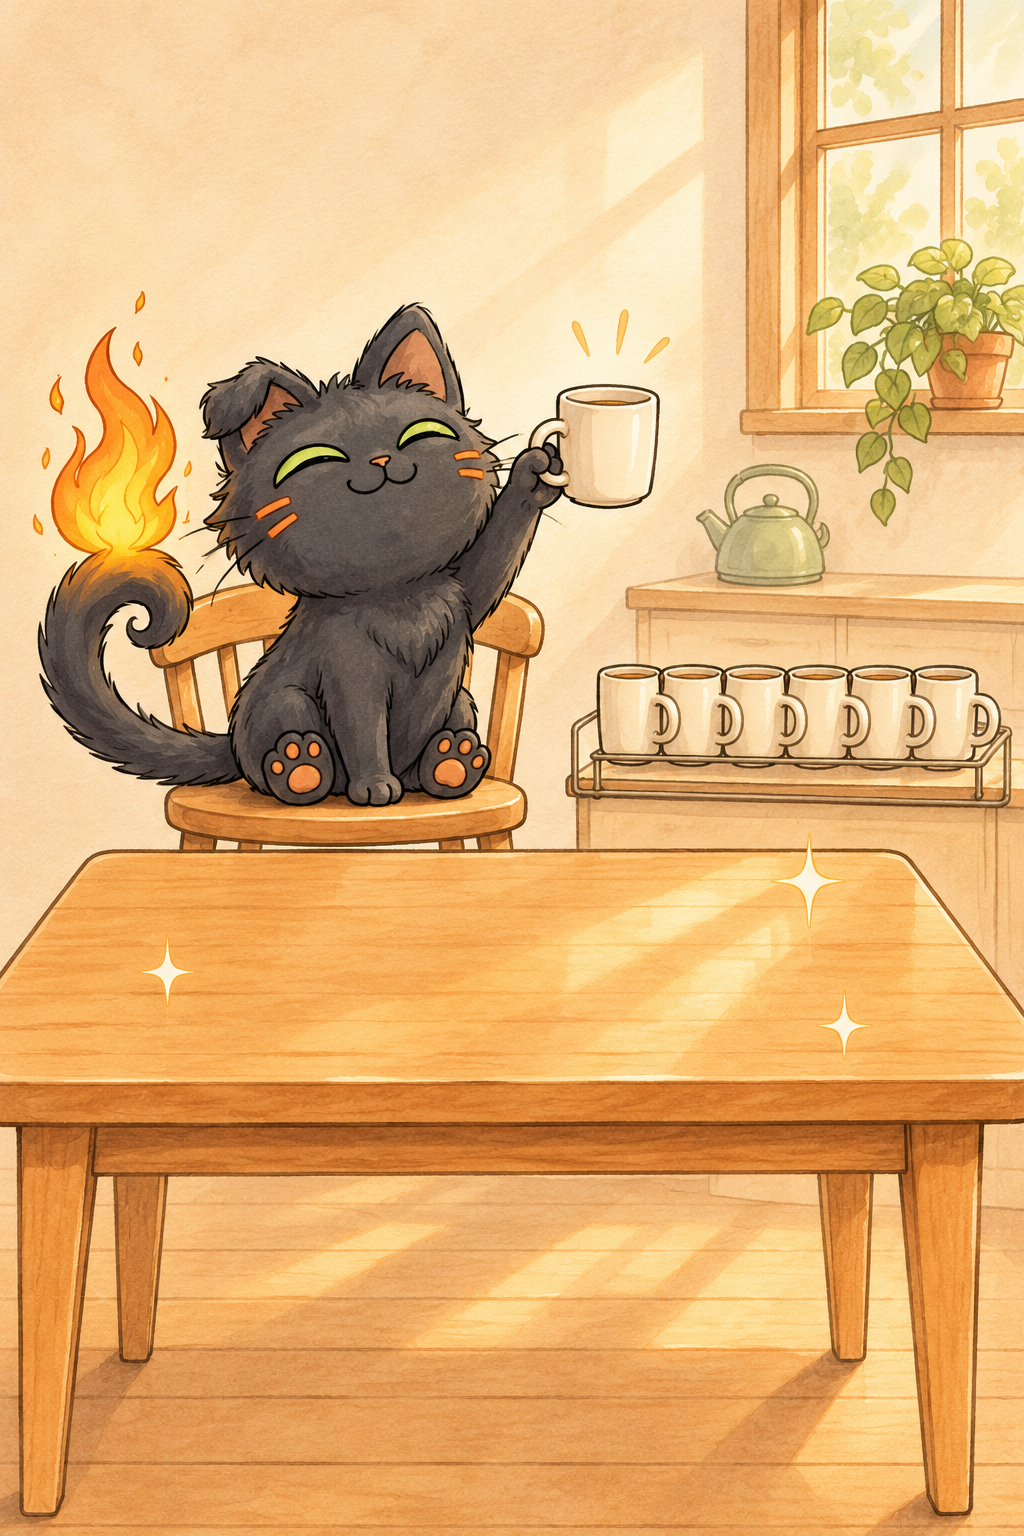
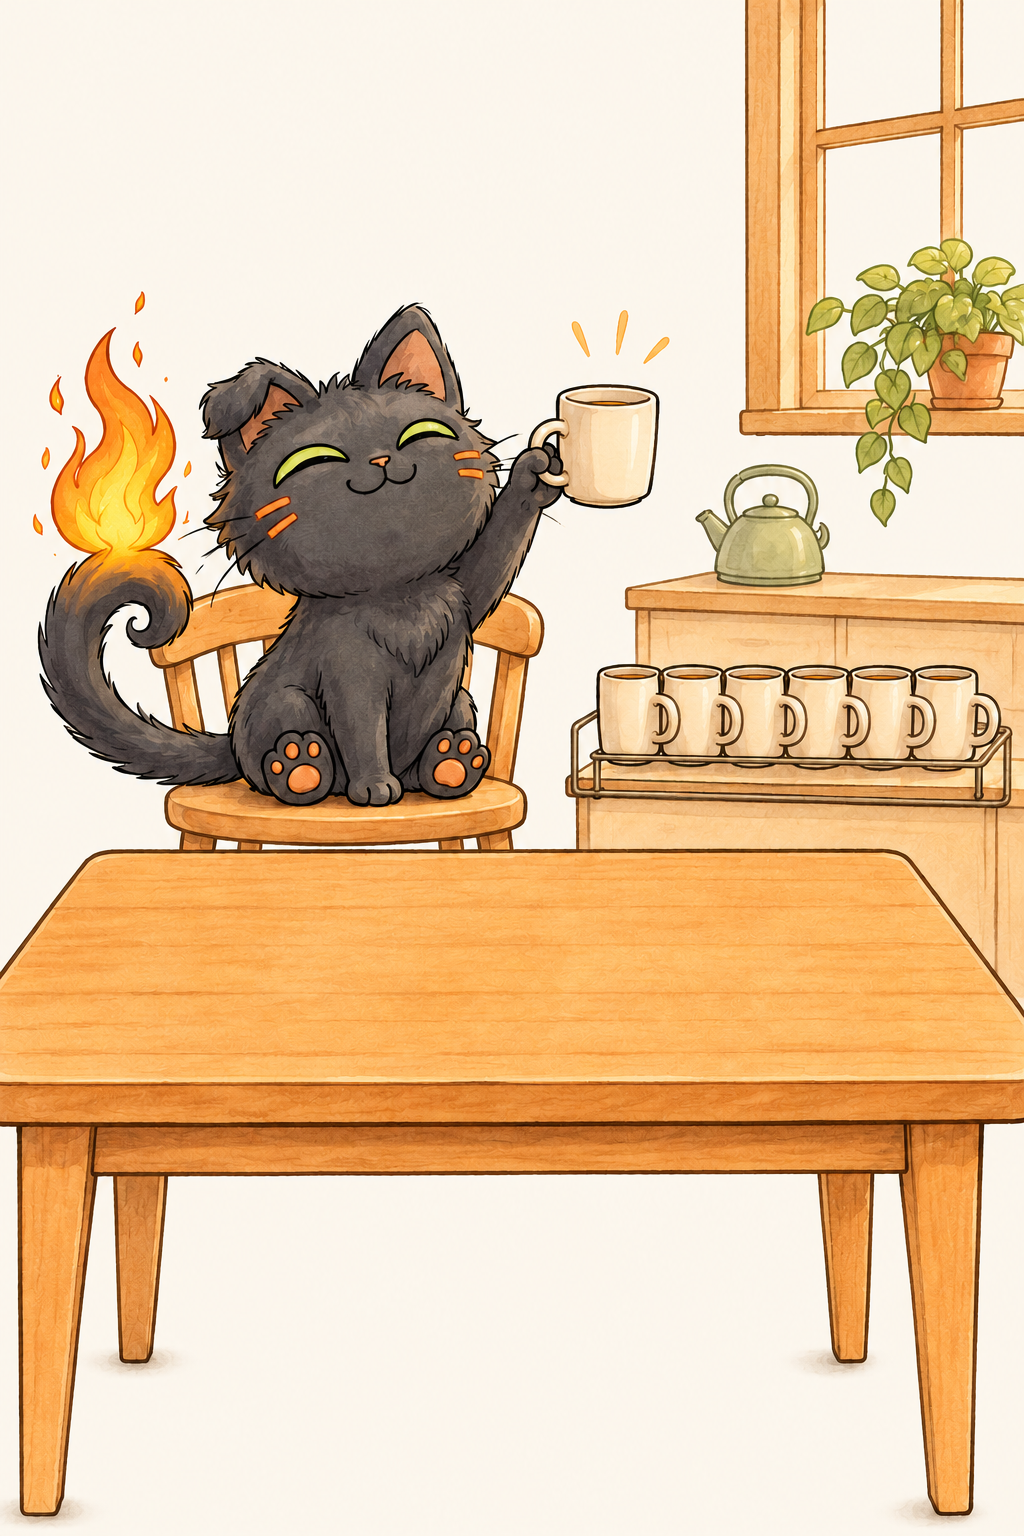
Reel 21: anchor «Знаешь и не делаешь» (both clashing words, iron rule 26), hook one shot to the riser peak, cuts on caption groups, loops closed by the plan before the call; cream redraws k5–k6; recream takes an extra background note
Claude-Session: https://claude.ai/code/session_01XV6HF8x2jb1vY9gxG1ktKZ

diff --git a/scripts/reel_recream.py b/scripts/reel_recream.py
@@ -28,18 +28,19 @@ COLOURS = ("Colours: black ink lines on cream paper in exactly the hand-drawn st
            "stays black with green eyes, orange cheek marks and an orange tail flame.")
 
 
-def prompt():
+def prompt(extra=""):
     marks = open(os.path.join(ROOT, "look", "hero_marks.txt"), encoding="utf8").read().strip()
     return ("Image 1 is a finished drawing. Redraw exactly the same drawing: the same composition, framing, camera angle, "
             "scale, and the same position, size, pose and expression of the main character and of every object, the same "
             "line work. Image 2 is the main character's reference: keep exactly its head, face, colours and markings. "
-            + marks + " The only change from image 1: " + BACKGROUND + " " + COLOURS + " Every surface is clean and "
+            + marks + " The only change from image 1: " + BACKGROUND + " " + (extra + " " if extra else "") + COLOURS + " Every surface is clean and "
             "unmarked: blank paper, blank screens, blank clock faces, no letters or numbers anywhere.")
 
 
 def main():
     ap = argparse.ArgumentParser(); ap.add_argument("reel_dir"); ap.add_argument("files", nargs="+")
     ap.add_argument("--dry", action="store_true")
+    ap.add_argument("--extra", default="", help="уточнение к фону для этого рисунка (что ещё убрать: пол, окно…)")
     a = ap.parse_args()
     import env; env.load_env()
     import llm_gateway
@@ -49,7 +50,7 @@ def main():
     if price > reel_draw.MAX_PRICE:
         raise SystemExit(f"цена {price} > {reel_draw.MAX_PRICE}")
     if a.dry:
-        print(prompt()); return
+        print(prompt(a.extra)); return
     hero = os.path.join(ROOT, "look", "hero.png")
     for rel in a.files:
         src = os.path.join(a.reel_dir, rel)
@@ -57,7 +58,7 @@ def main():
         os.makedirs(os.path.dirname(keep), exist_ok=True)
         if not os.path.exists(keep):
             shutil.copy2(src, keep)
-        p = prompt()
+        p = prompt(a.extra)
         ims, paid = G.image(reel_draw.MODEL, p, reel_draw.SIZE, reel_draw.QUALITY,
                             images=[reel_draw.data_url(keep), reel_draw.data_url(hero)], timeout=600)
         open(src, "wb").write(ims[0])

diff --git a/videos/21_znayu/reel/windows.py b/videos/21_znayu/reel/windows.py
@@ -14,15 +14,15 @@ W = {
  "bookface": _w(490, 680, 440),   # растерянная морда над книгой
  "notes": _w(500, 380, 700, dy=-6),  # листки улетают вверх
  "sofa": _w(560, 620, 1000),      # кот на диване с ноутбуком, окошки роликов на стене
- "table": _w(520, 1170, 760),     # стол, заставленный кружками
+ "table": _w(520, 1150, 760),     # стол, заставленный кружками
  "laptop": _w(400, 760, 560),     # морда кота у экрана
  "videos": _w(500, 420, 800),     # окошки роликов на стене
  "plan": _w(540, 780, 1180),      # кот на табурете у чайника, стрелка к кружке
  "kettle": _w(680, 760, 440),     # лапа на кнопке чайника
- "mug": _w(880, 780, 360),        # одна кружка на краю стола
+ "mug": ([804, 808, 300], [822, 810, 285]),        # одна кружка на краю стола
  "together": _w(540, 760, 1000),  # кот и рука моют кружку вместе
- "kitface": _w(420, 560, 480),    # кот кивает зрителю
- "wash": _w(800, 840, 380),       # кружка под струёй
+ "kitface": ([430, 650, 720], [434, 656, 684]),    # кот кивает зрителю
+ "wash": ([704, 824, 380], [688, 820, 361]),       # кружка под струёй
  "proud": _w(420, 560, 680),      # кот гордо держит чистую кружку
  "clean": _w(512, 880, 1300, k=0.92),  # чистый стол целиком
 }

diff --git a/library/cat/README.md b/library/cat/README.md
@@ -1,10 +1,10 @@
 # Библиотека оригиналов: кот и всё, что сгенерировано
 
-Картинок: **207**, 417 МБ. Оригиналы — `originals/` байт в байт, как пришли из модели (PNG без пересжатия); `thumbs/` — превью для этой страницы; `catalog.json` — промпт, модель, цена, где используется.
+Картинок: **210**, 423 МБ. Оригиналы — `originals/` байт в байт, как пришли из модели (PNG без пересжатия); `thumbs/` — превью для этой страницы; `catalog.json` — промпт, модель, цена, где используется.
 
 Пополняется сама: каждая генерация через шлюз (`llm_gateway.Gateway.image`) кладёт картинку сюда, включая забракованные варианты. Собрать уже лежащее в репозитории: `python scripts/cat_library.py --scan`.
 
-## генерация (151)
+## генерация (154)
 
 | превью | оригинал | где | промпт |
 |---|---|---|---|
@@ -129,6 +129,7 @@
 | ![](thumbs/2026-11-04_gen_cx_gpt-image-2_5_13a9cc00.jpg) | [2026-11-04_gen_cx_gpt-image-2_5_13a9cc00.png](originals/2026-11-04_gen_cx_gpt-image-2_5_13a9cc00.png)<br>1024×1536, 2026-11-04 | videos/21_znayu/reel/draw_color.py | Reference images 1-3 show only the drawing style: take from them the line work, colors, shading and simplicity, never their content or characters. Reference image 4 is the main character: keep exactly its head, face, col… |
 | ![](thumbs/2026-11-04_gen_cx_gpt-image-2_5_19109087.jpg) | [2026-11-04_gen_cx_gpt-image-2_5_19109087.png](originals/2026-11-04_gen_cx_gpt-image-2_5_19109087.png)<br>1024×1536, 2026-11-04 | videos/19_opozdal/reel/draw_color.py | Reference images 1-3 show only the drawing style: take from them the line work, colors, shading and simplicity, never their content or characters. Reference image 4 is the main character: keep exactly its head, face, col… |
 | ![](thumbs/2026-11-04_gen_cx_gpt-image-2_5_1c6630af.jpg) | [2026-11-04_gen_cx_gpt-image-2_5_1c6630af.png](originals/2026-11-04_gen_cx_gpt-image-2_5_1c6630af.png)<br>1024×1536, 2026-11-04 | scripts/reel_recream.py videos/19_opozdal/reel gen/d2_sock.png | Image 1 is a finished drawing. Redraw exactly the same drawing: the same composition, framing, camera angle, scale, and the same position, size, pose and expression of the main character and of every object, the same lin… |
+| ![](thumbs/2026-11-04_gen_cx_gpt-image-2_5_1ec8c122.jpg) | [2026-11-04_gen_cx_gpt-image-2_5_1ec8c122.png](originals/2026-11-04_gen_cx_gpt-image-2_5_1ec8c122.png)<br>1024×1536, 2026-11-04 | scripts/reel_recream.py videos/21_znayu/reel gen/k5_book.png | Image 1 is a finished drawing. Redraw exactly the same drawing: the same composition, framing, camera angle, scale, and the same position, size, pose and expression of the main character and of every object, the same lin… |
 | ![](thumbs/2026-11-04_gen_cx_gpt-image-2_5_21f82d9a.jpg) | [2026-11-04_gen_cx_gpt-image-2_5_21f82d9a.png](originals/2026-11-04_gen_cx_gpt-image-2_5_21f82d9a.png)<br>1024×1536, 2026-11-04 | videos/21_znayu/reel/draw_color.py | Reference images 1-3 show only the drawing style: take from them the line work, colors, shading and simplicity, never their content or characters. Reference image 4 is the main character: keep exactly its head, face, col… |
 | ![](thumbs/2026-11-04_gen_cx_gpt-image-2_5_23890a3f.jpg) | [2026-11-04_gen_cx_gpt-image-2_5_23890a3f.png](originals/2026-11-04_gen_cx_gpt-image-2_5_23890a3f.png)<br>1024×1536, 2026-11-04 | scripts/reel_recream.py videos/21_znayu/reel gen/k1_tips.png | Image 1 is a finished drawing. Redraw exactly the same drawing: the same composition, framing, camera angle, scale, and the same position, size, pose and expression of the main character and of every object, the same lin… |
 | ![](thumbs/2026-11-04_gen_cx_gpt-image-2_5_322ad94c.jpg) | [2026-11-04_gen_cx_gpt-image-2_5_322ad94c.png](originals/2026-11-04_gen_cx_gpt-image-2_5_322ad94c.png)<br>1024×1536, 2026-11-04 | videos/19_opozdal/reel/draw_color.py | Reference images 1-3 show only the drawing style: take from them the line work, colors, shading and simplicity, never their content or characters. Reference image 4 is the main character: keep exactly its head, face, col… |
@@ -138,6 +139,7 @@
 | ![](thumbs/2026-11-04_gen_cx_gpt-image-2_5_47c2544e.jpg) | [2026-11-04_gen_cx_gpt-image-2_5_47c2544e.png](originals/2026-11-04_gen_cx_gpt-image-2_5_47c2544e.png)<br>1024×1536, 2026-11-04 | scripts/reel_draw.py videos/20_abonement/reel | Reference images 1-3 show only the drawing style: take from them the line work, colors, shading and simplicity, never their content or characters. Reference image 4 is the main character: keep exactly its head, face, col… |
 | ![](thumbs/2026-11-04_gen_cx_gpt-image-2_5_4bf8fd8c.jpg) | [2026-11-04_gen_cx_gpt-image-2_5_4bf8fd8c.png](originals/2026-11-04_gen_cx_gpt-image-2_5_4bf8fd8c.png)<br>1024×1536, 2026-11-04 | scripts/reel_recream.py videos/21_znayu/reel gen/k1_tips.png | Image 1 is a finished drawing. Redraw exactly the same drawing: the same composition, framing, camera angle, scale, and the same position, size, pose and expression of the main character and of every object, the same lin… |
 | ![](thumbs/2026-11-04_gen_cx_gpt-image-2_5_4de8eec6.jpg) | [2026-11-04_gen_cx_gpt-image-2_5_4de8eec6.png](originals/2026-11-04_gen_cx_gpt-image-2_5_4de8eec6.png)<br>1024×1536, 2026-11-04 | scripts/reel_recream.py videos/19_opozdal/reel gen/d2_sock.png | Image 1 is a finished drawing. Redraw exactly the same drawing: the same composition, framing, camera angle, scale, and the same position, size, pose and expression of the main character and of every object, the same lin… |
+| ![](thumbs/2026-11-04_gen_cx_gpt-image-2_5_5072a43e.jpg) | [2026-11-04_gen_cx_gpt-image-2_5_5072a43e.png](originals/2026-11-04_gen_cx_gpt-image-2_5_5072a43e.png)<br>1024×1536, 2026-11-04 | scripts/reel_recream.py videos/21_znayu/reel gen/k6_together.png | Image 1 is a finished drawing. Redraw exactly the same drawing: the same composition, framing, camera angle, scale, and the same position, size, pose and expression of the main character and of every object, the same lin… |
 | ![](thumbs/2026-11-04_gen_cx_gpt-image-2_5_6540c7a1.jpg) | [2026-11-04_gen_cx_gpt-image-2_5_6540c7a1.png](originals/2026-11-04_gen_cx_gpt-image-2_5_6540c7a1.png)<br>1024×1536, 2026-11-04 | videos/19_opozdal/reel/draw_color.py d6_out | Reference images 1-3 show only the drawing style: take from them the line work, colors, shading and simplicity, never their content or characters. Reference image 4 is the main character: keep exactly its head, face, col… |
 | ![](thumbs/2026-11-04_gen_cx_gpt-image-2_5_6667ac63.jpg) | [2026-11-04_gen_cx_gpt-image-2_5_6667ac63.png](originals/2026-11-04_gen_cx_gpt-image-2_5_6667ac63.png)<br>1024×1536, 2026-11-04 | scripts/reel_recream.py videos/20_abonement/reel gen/g1_hook.png | Image 1 is a finished drawing. Redraw exactly the same drawing: the same composition, framing, camera angle, scale, and the same position, size, pose and expression of the main character and of every object, the same lin… |
 | ![](thumbs/2026-11-04_gen_cx_gpt-image-2_5_68b5e494.jpg) | [2026-11-04_gen_cx_gpt-image-2_5_68b5e494.png](originals/2026-11-04_gen_cx_gpt-image-2_5_68b5e494.png)<br>1024×1536, 2026-11-04 | videos/21_znayu/reel/draw_color.py | Reference images 1-3 show only the drawing style: take from them the line work, colors, shading and simplicity, never their content or characters. Reference image 4 is the main character: keep exactly its head, face, col… |
@@ -157,6 +159,7 @@
 | ![](thumbs/2026-11-04_gen_cx_gpt-image-2_5_b3b8e9f6.jpg) | [2026-11-04_gen_cx_gpt-image-2_5_b3b8e9f6.png](originals/2026-11-04_gen_cx_gpt-image-2_5_b3b8e9f6.png)<br>1024×1536, 2026-11-04 | scripts/reel_recream.py videos/19_opozdal/reel gen/d2_sock.png | Image 1 is a finished drawing. Redraw exactly the same drawing: the same composition, framing, camera angle, scale, and the same position, size, pose and expression of the main character and of every object, the same lin… |
 | ![](thumbs/2026-11-04_gen_cx_gpt-image-2_5_be3805ae.jpg) | [2026-11-04_gen_cx_gpt-image-2_5_be3805ae.png](originals/2026-11-04_gen_cx_gpt-image-2_5_be3805ae.png)<br>1024×1536, 2026-11-04 | scripts/reel_recream.py videos/19_opozdal/reel gen/d1_clock.png | Image 1 is a finished drawing. Redraw exactly the same drawing: the same composition, framing, camera angle, scale, and the same position, size, pose and expression of the main character and of every object, the same lin… |
 | ![](thumbs/2026-11-04_gen_cx_gpt-image-2_5_d80264fe.jpg) | [2026-11-04_gen_cx_gpt-image-2_5_d80264fe.png](originals/2026-11-04_gen_cx_gpt-image-2_5_d80264fe.png)<br>1024×1536, 2026-11-04 | videos/21_znayu/reel/draw_color.py | Reference images 1-3 show only the drawing style: take from them the line work, colors, shading and simplicity, never their content or characters. Reference image 4 is the main character: keep exactly its head, face, col… |
+| ![](thumbs/2026-11-04_gen_cx_gpt-image-2_5_f1e3f5dc.jpg) | [2026-11-04_gen_cx_gpt-image-2_5_f1e3f5dc.png](originals/2026-11-04_gen_cx_gpt-image-2_5_f1e3f5dc.png)<br>1024×1536, 2026-11-04 | scripts/reel_recream.py videos/21_znayu/reel gen/k4_table.png | Image 1 is a finished drawing. Redraw exactly the same drawing: the same composition, framing, camera angle, scale, and the same position, size, pose and expression of the main character and of every object, the same lin… |
 | ![](thumbs/2026-11-04_gen_cx_gpt-image-2_5_f2663085.jpg) | [2026-11-04_gen_cx_gpt-image-2_5_f2663085.png](originals/2026-11-04_gen_cx_gpt-image-2_5_f2663085.png)<br>1024×1536, 2026-11-04 | videos/19_opozdal/reel/draw_color.py | Reference images 1-3 show only the drawing style: take from them the line work, colors, shading and simplicity, never their content or characters. Reference image 4 is the main character: keep exactly its head, face, col… |
 | ![](thumbs/2026-11-04_gen_cx_gpt-image-2_5_f81a6739.jpg) | [2026-11-04_gen_cx_gpt-image-2_5_f81a6739.png](originals/2026-11-04_gen_cx_gpt-image-2_5_f81a6739.png)<br>1024×1536, 2026-11-04 | scripts/reel_recream.py videos/20_abonement/reel gen/g1_hook.png | Image 1 is a finished drawing. Redraw exactly the same drawing: the same composition, framing, camera angle, scale, and the same position, size, pose and expression of the main character and of every object, the same lin… |
 
